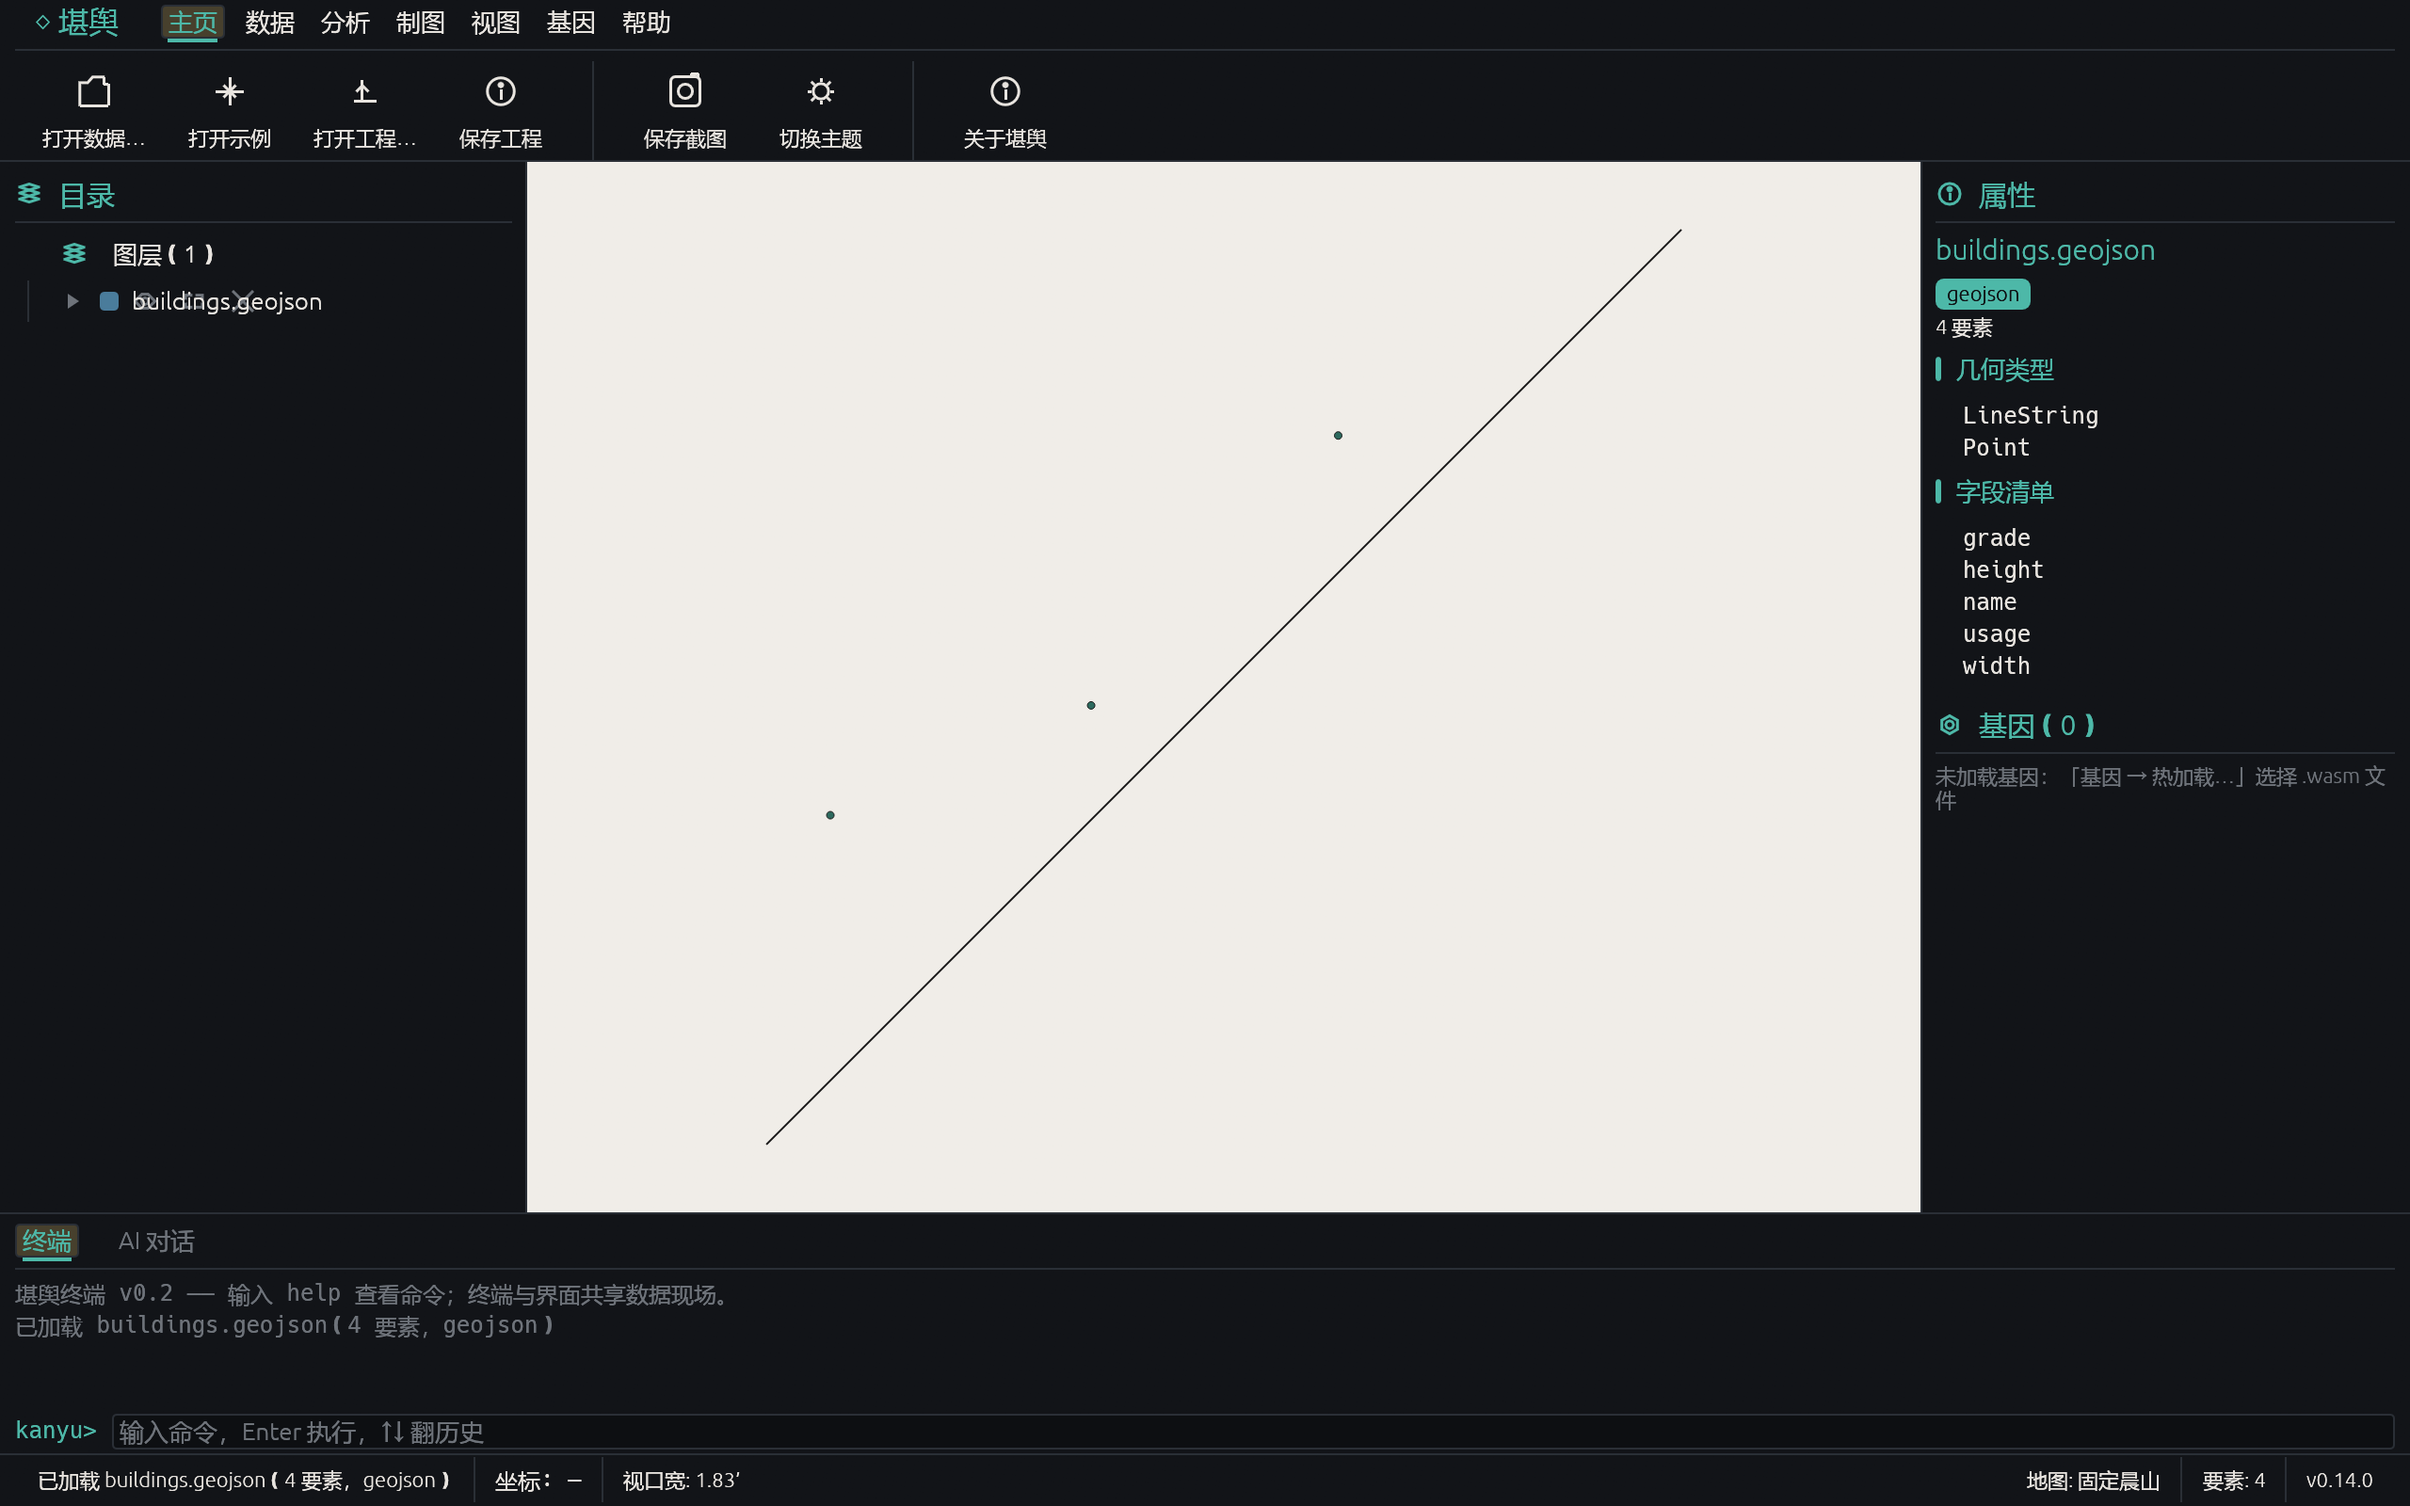
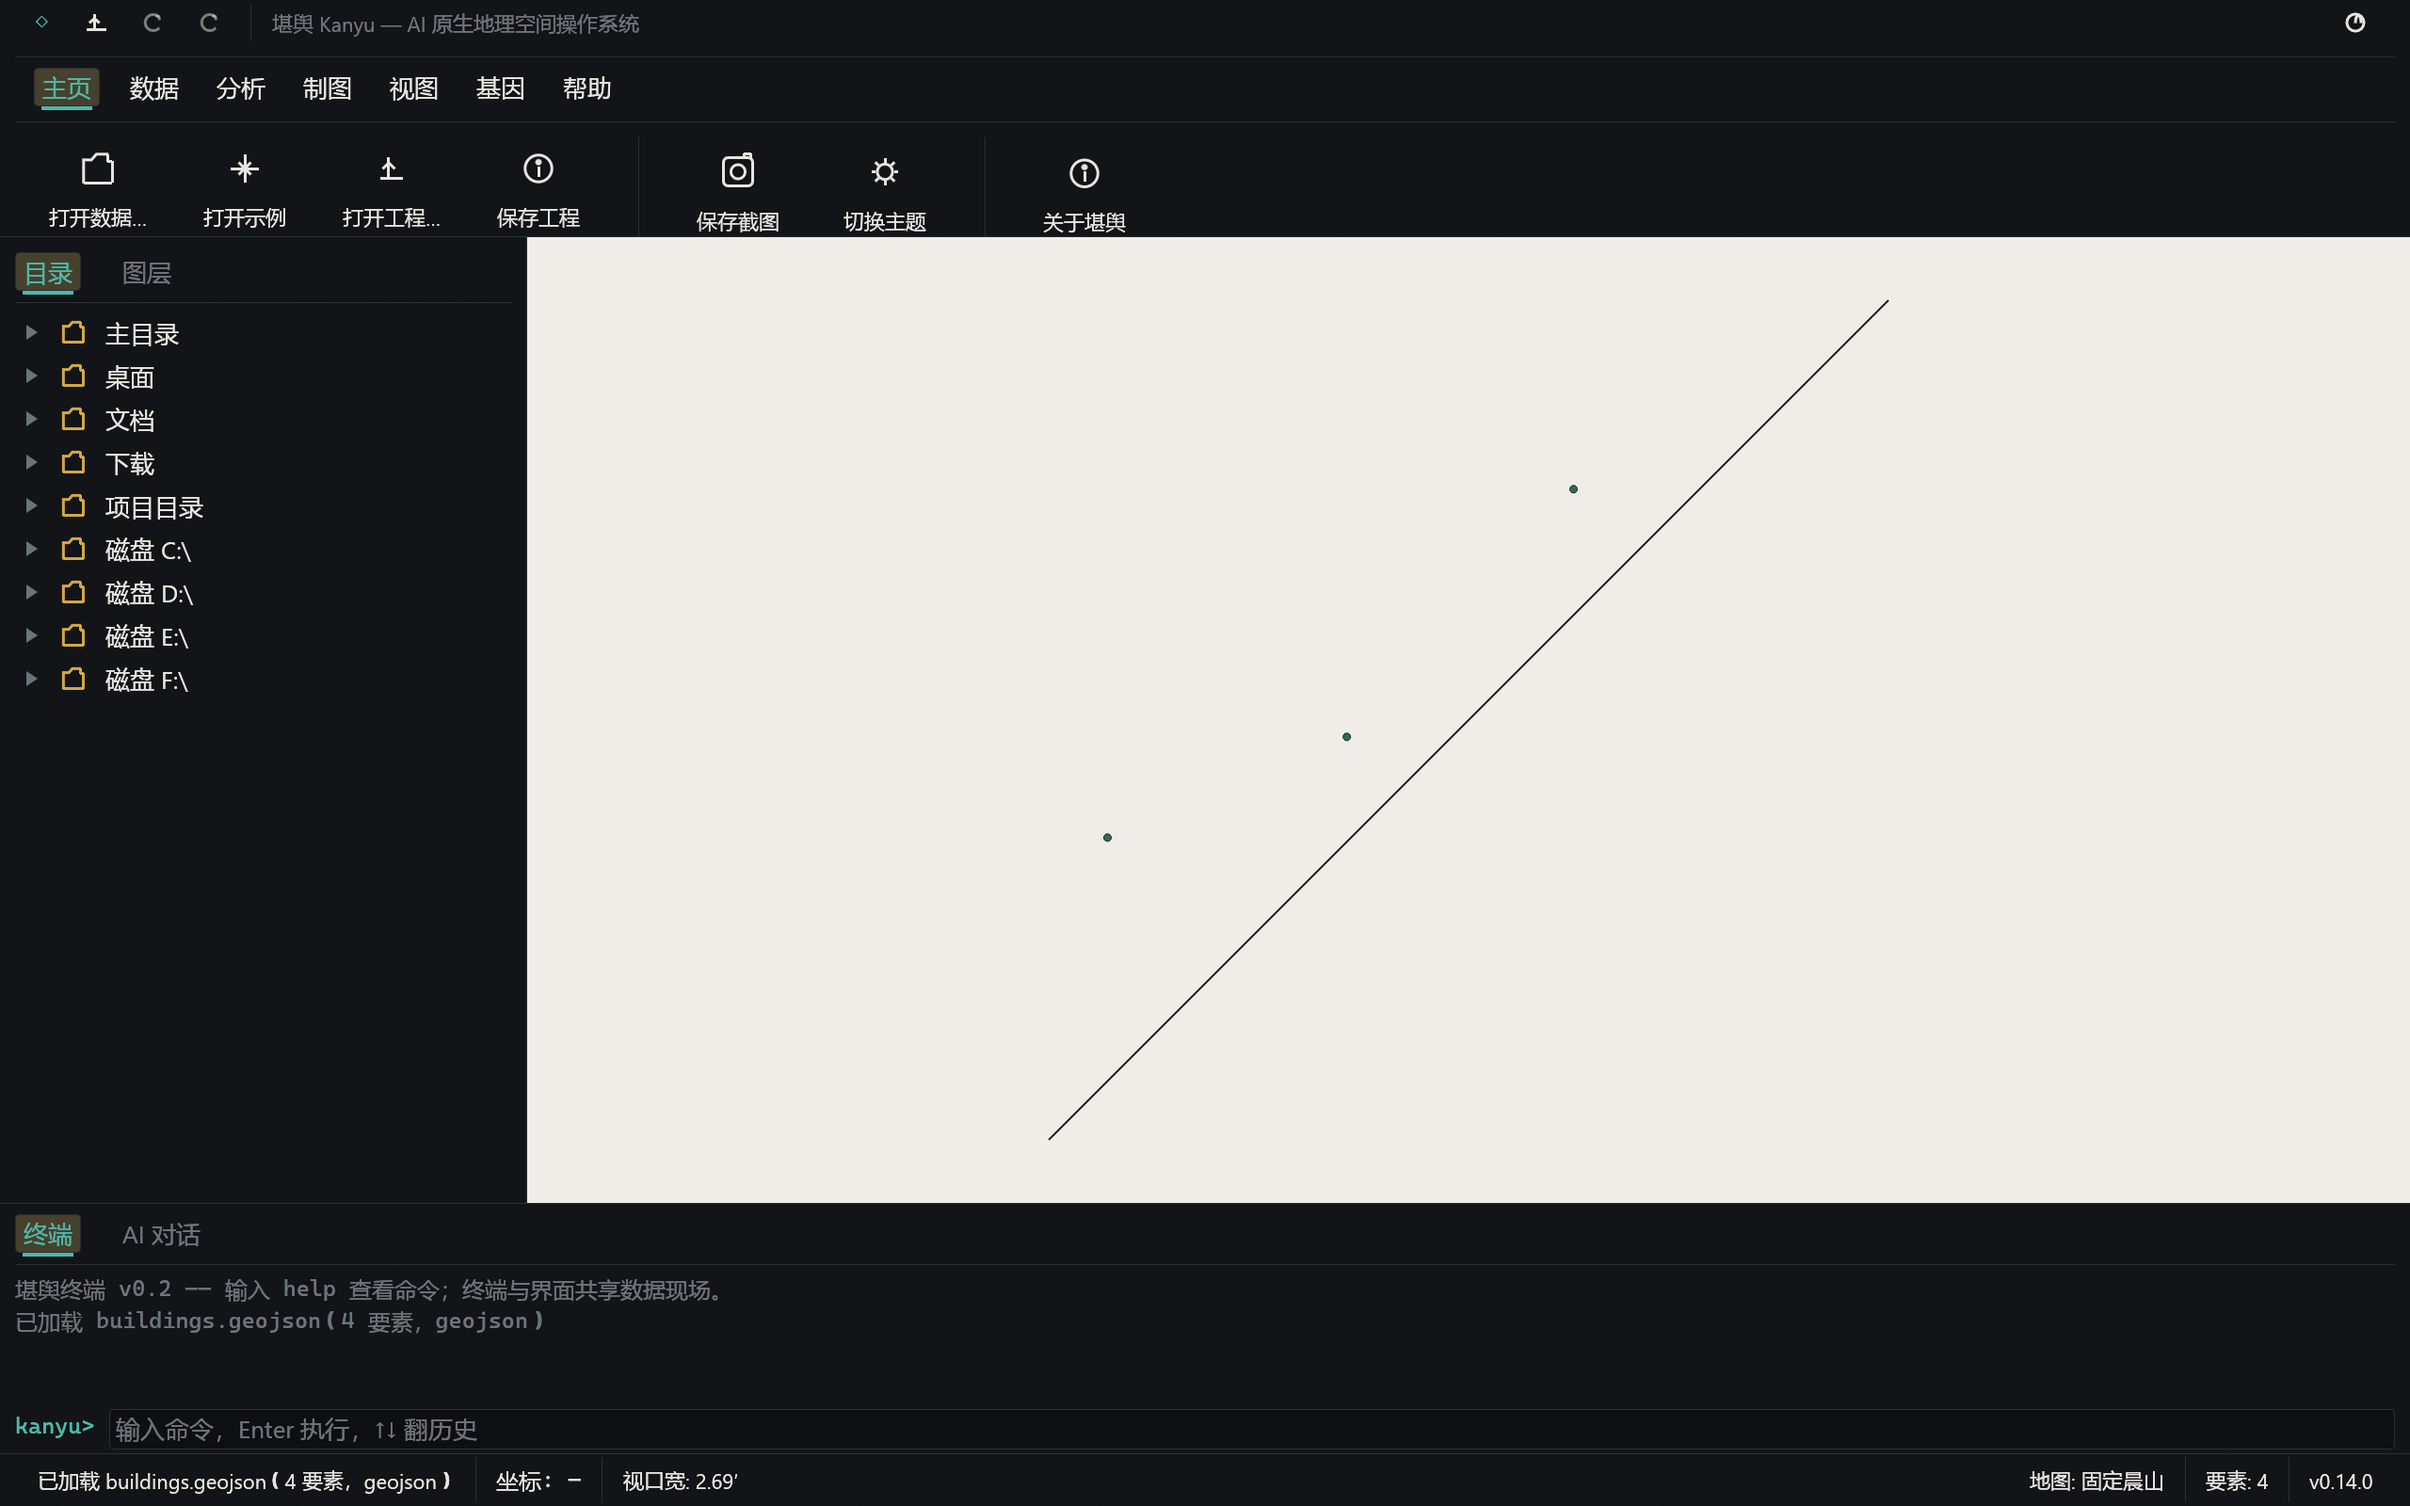
chore(release): v0.15.0 —— 桌面壳层与双格式
- shell v0.2～v0.5：ArcGIS Pro 三段式功能区 + QGIS 停靠面板 +
  Apple HIG 字体间距 + AI 对话面板（双驱动）+ 地图色彩解耦
- KDB 堪舆数据库 + KYU 堪舆工程（裁决 #19）
- README/截图/文档同步刷新
- 134 测试全绿，clippy 零警告

diff --git a/README.md b/README.md
@@ -39,7 +39,7 @@ See [docs/MASTERPLAN.md](docs/MASTERPLAN.md) for the full vision.
 - **脊髓 CLI**：`kanyu data info/load/query/export`、`kanyu introspect`、`kanyu agents init/validate`、`kanyu mcp serve`，全局 `--json`。
 - **神经接口**：基于官方 `rmcp` SDK 的 MCP Server（stdio + streamable HTTP），确定性工具，结构化输出。
 - **离屏渲染**：`kanyu render map` / MCP `kanyu_render_map`——数据 → PNG（tiny-skia）/ SVG 地图图片，晨山/夜观星双主题，AI 代理可直接"看见"数据。
-- **桌面壳层**：`kanyu-shell`——ArcGIS Pro 式深度 UI：七页签 Ribbon（图标+文字+功能介绍大按钮，总规 §1.4 线性图标）、Contents 骨架目录树、独立终端 + AI 对话双页签（本地规则/OpenAI 兼容双驱动，BitFun 式设置）、地图色彩与界面主题解耦（固定晨山保制图正确）、`.kyu` 工程打开/保存、内置 `ui_kit` 设计系统，晨山/夜观星双主题。
+- **桌面壳层**：`kanyu-shell`——ArcGIS Pro 三段式功能区（QAT 快速访问栏 + 七页签 + 图标大按钮组）、QGIS 式目录浏览器树与图层工具栏、独立终端 + AI 对话双页签（本地规则/OpenAI 兼容双驱动）、Apple HIG 字体间距体系（Segoe UI + 发丝线分隔）、地图色彩与界面主题解耦（固定晨山保制图正确）、`.kyu` 工程打开/保存、内置 `ui_kit` 设计系统，晨山/夜观星双主题。
 - **基因热加载**：MCP `kanyu_system_hotload` / `kanyu_gene_run` / `kanyu_gene_list`——WASM 基因（wasmtime 沙箱）远程加载校验与执行，AI 代理可远程扩展内核能力。
 - **项目罗盘**：`AGENTS.md` 地理 profile 的生成、解析与完整性校验。
 

diff --git a/CHANGELOG.md b/CHANGELOG.md
@@ -4,6 +4,10 @@
 
 ## [Unreleased]
 
+## [0.15.0] - 2026-08-03
+
+**桌面壳层落地：ArcGIS Pro 式深度 UI + 堪舆数据库/工程双格式 + AI 对话面板。**
+
 ### 新增
 
 - **kanyu-shell v0.5**（四标准设计深化：Apple HIG + QGIS + ArcGIS Pro + design-review）：
@@ -458,7 +462,8 @@
 - 分析/渲染/编辑工具组（buffer/overlay/topology/render）为规划状态。
 - MCP 仅 stdio 传输；streamable HTTP 与 MCP tasks 长任务待 v0.2。
 
-[Unreleased]: https://github.com/DaoMingyuan/Kanyu/compare/v0.14.0...HEAD
+[Unreleased]: https://github.com/DaoMingyuan/Kanyu/compare/v0.15.0...HEAD
+[0.15.0]: https://github.com/DaoMingyuan/Kanyu/releases/tag/v0.15.0
 [0.14.0]: https://github.com/DaoMingyuan/Kanyu/releases/tag/v0.14.0
 [0.13.0]: https://github.com/DaoMingyuan/Kanyu/releases/tag/v0.13.0
 [0.12.0]: https://github.com/DaoMingyuan/Kanyu/releases/tag/v0.12.0

diff --git a/AI_SYNC.md b/AI_SYNC.md
@@ -52,7 +52,7 @@
 
 ## 1. 状态快照
 
-> 每次收工回记时更新。截至 **2026-08-03 · v0.14.0+ · 130 测试全绿**。
+> 每次收工回记时更新。截至 **2026-08-03 · v0.15.0 · 134 测试全绿**。
 
 ### 1.1 已完成实现
 
